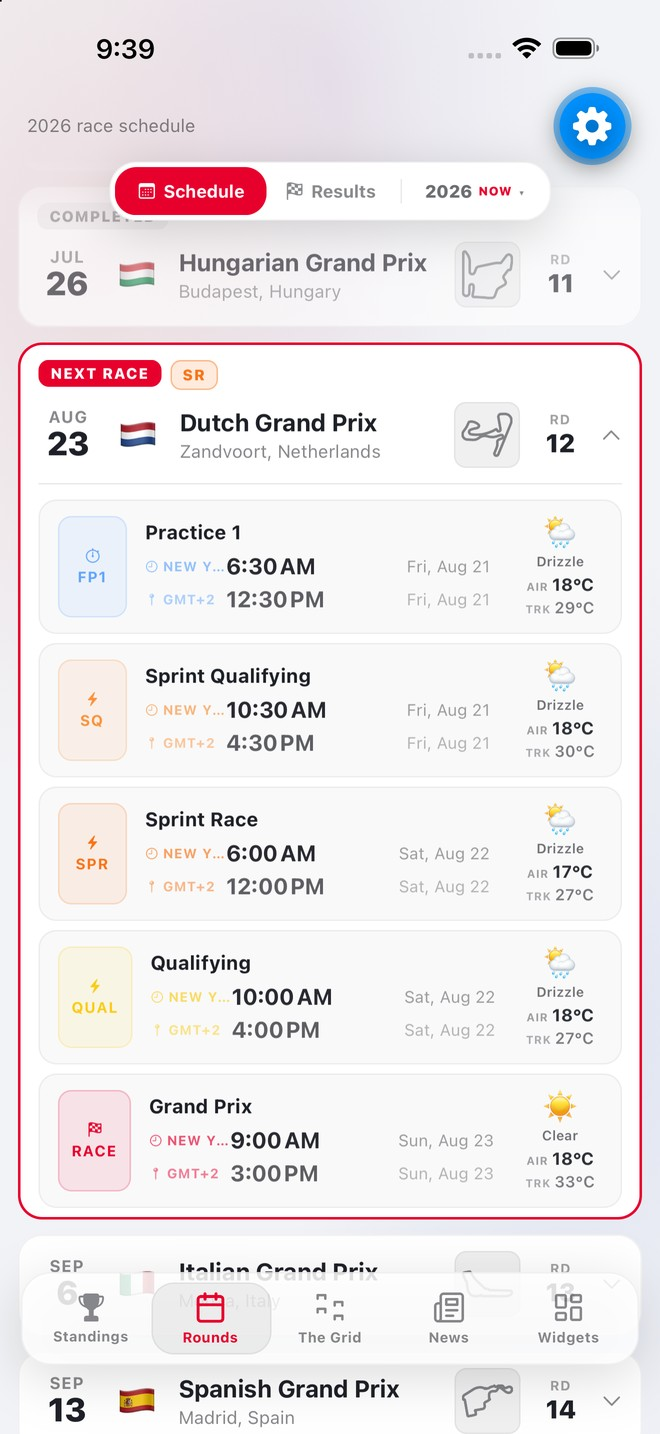
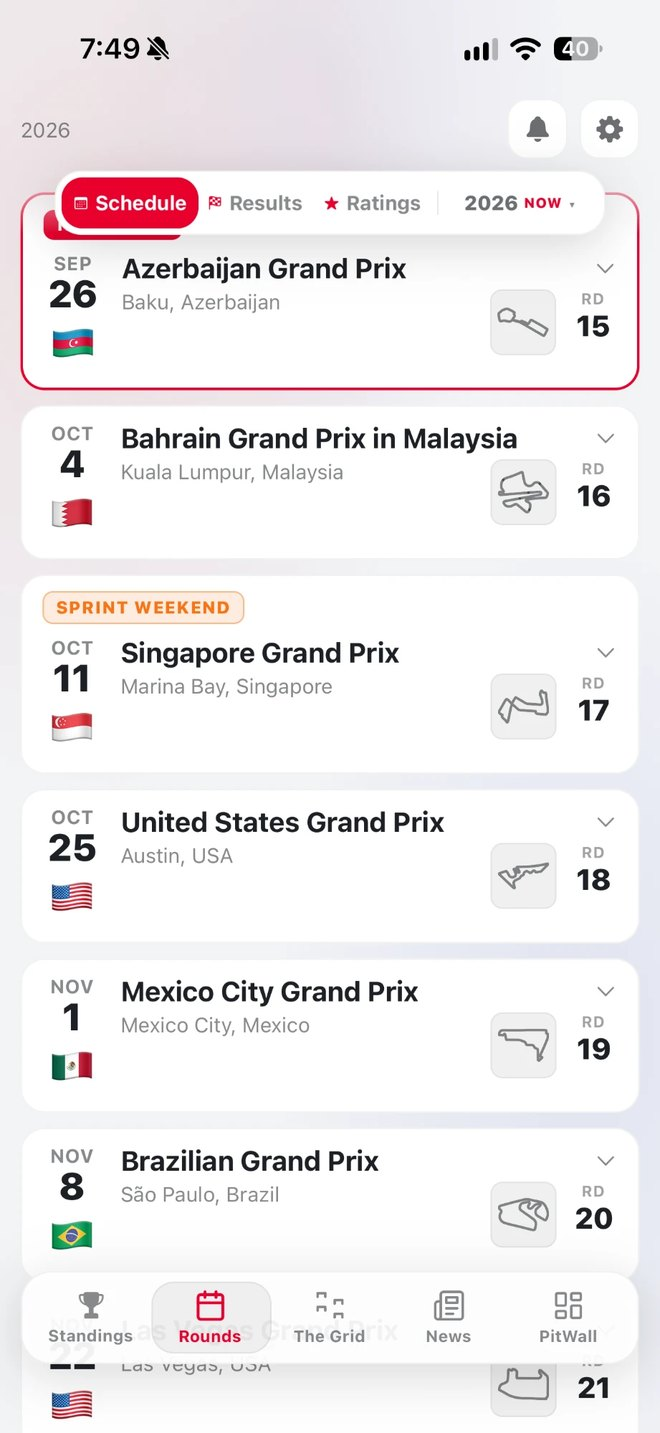
Screenshots: refresh to live-app captures (fix — include all assets + html)
Schedule, Standings, PitWall (new trio 3rd), Circuit-Spa, Ratings (surnames blurred);
screen-widgets.jpg -> screen-pitwall.jpg; index.html alt/caption/src updated.

diff --git a/index.html b/index.html
@@ -385,14 +385,14 @@
   <div class="shots">
     <figure class="phone-fig"><div class="phone"><div class="screen"><img src="assets/screen-schedule.jpg" alt="FlatOut schedule — every session in your time zone"></div></div><figcaption>Schedule</figcaption></figure>
     <figure class="phone-fig"><div class="phone"><div class="screen"><img src="assets/screen-standings.jpg" alt="FlatOut driver standings"></div></div><figcaption>Standings</figcaption></figure>
-    <figure class="phone-fig"><div class="phone"><div class="screen"><img src="assets/screen-widgets.jpg" alt="FlatOut home-screen widgets"></div></div><figcaption>Widgets</figcaption></figure>
+    <figure class="phone-fig"><div class="phone"><div class="screen"><img src="assets/screen-pitwall.jpg" alt="FlatOut PitWall — your season at a glance"></div></div><figcaption>PitWall</figcaption></figure>
   </div>
 </section>
 
 <section id="maps">
   <div class="split glass" style="background:linear-gradient(135deg,rgba(232,0,45,.10),rgba(20,52,120,.16) 60%)">
     <div style="display:grid;place-items:center">
-      <div class="phone"><div class="screen"><img src="assets/screen-circuit.jpg" alt="FlatOut circuit map — Shanghai, colour-coded by sector"></div></div>
+      <div class="phone"><div class="screen"><img src="assets/screen-circuit.jpg" alt="FlatOut circuit map — Spa-Francorchamps, colour-coded by sector"></div></div>
     </div>
     <div>
       <div class="eyebrow">Circuit maps</div>
@@ -410,7 +410,7 @@
       <p>Rate the race, the drivers and the teams the moment the flag drops, and build a running record all season. Full session results sit right beside it — gap and points, one tap from the schedule.</p>
     </div>
     <div style="display:grid;place-items:center">
-      <div class="phone"><div class="screen"><img src="assets/screen-weekend.jpg" alt="FlatOut — rate the weekend, with session results"></div></div>
+      <div class="phone"><div class="screen"><img src="assets/screen-weekend.jpg" alt="FlatOut — rate the weekend and read community reviews"></div></div>
     </div>
   </div>
 </section>
